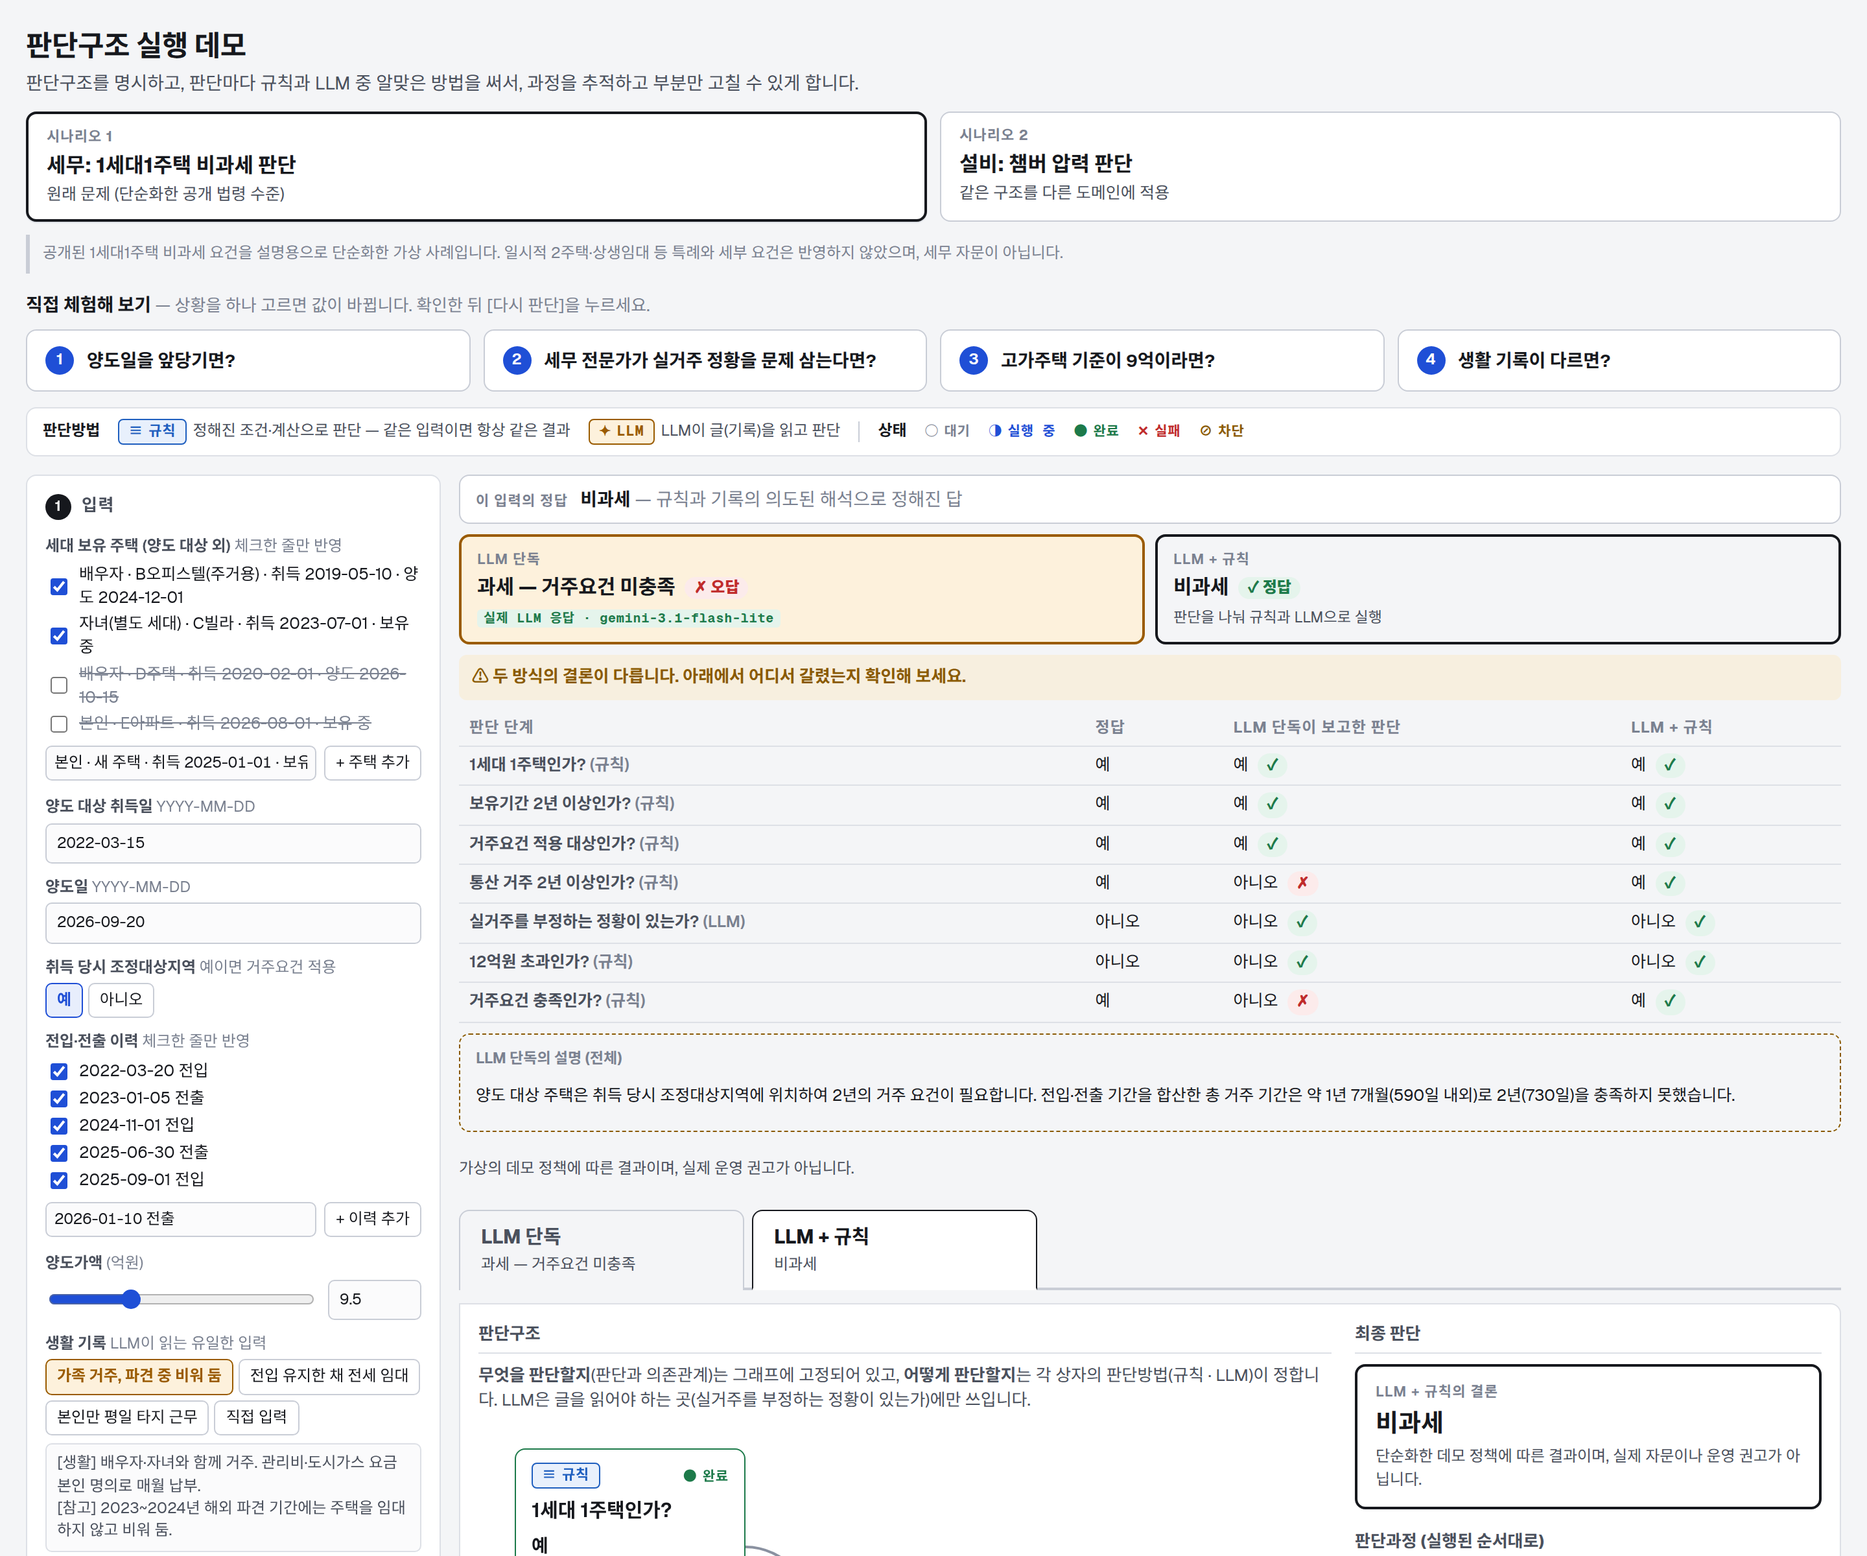
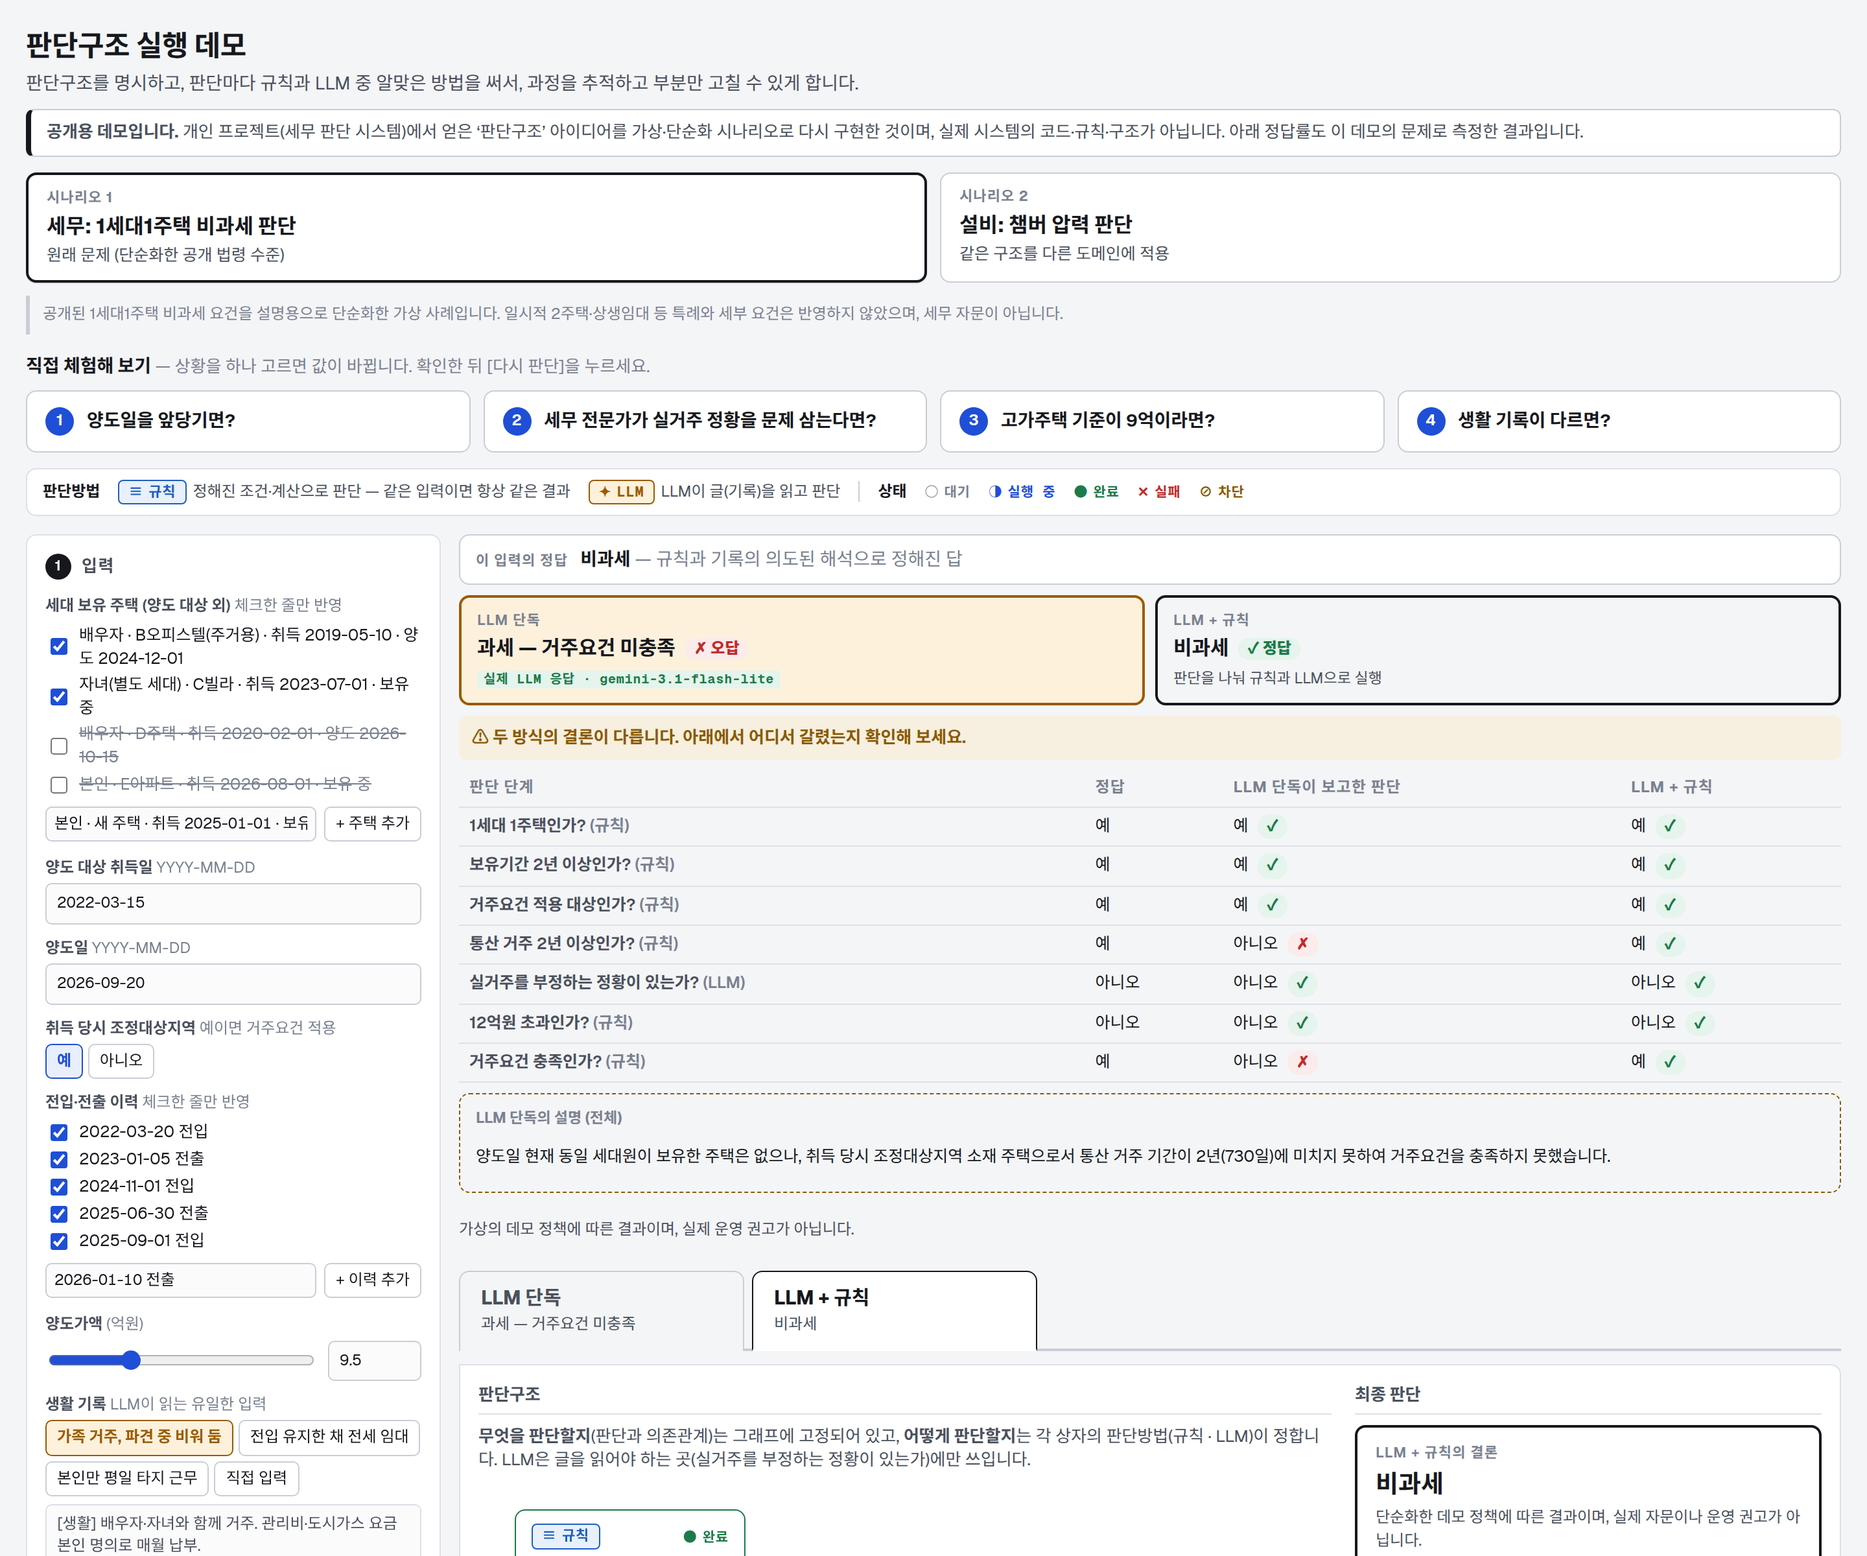
State clearly that this is a public demo and name the lightweight model
- Demo notice on the screen and at the top of the README: a re-implementation
  of the judgment-structure idea on simplified hypothetical scenarios, not the
  author's actual system, code or rules.
- README rewritten in Korean with the benchmark results and local run steps.
- The benchmark names gemini-3.1-flash-lite as a lightweight model and says
  what better models may and may not change.

diff --git a/src/components/BenchmarkPanel.tsx b/src/components/BenchmarkPanel.tsx
@@ -63,7 +63,8 @@ export function BenchmarkPanel({
       ) : (
         <>
           <p className={s.benchHow}>
-            문제 <b>{measured.length}개</b>를 각각 <b>{perCase}번씩</b>, 방식마다 모두 <b>{total("llmOnly", (x) => x.runs)}번</b> 풀었습니다.
+            문제 <b>{measured.length}개</b>를 각각 <b>{perCase}번씩</b>, 방식마다 모두 <b>{total("llmOnly", (x) => x.runs)}번</b> 풀었습니다. 사용
+            모델: <b>{data.model}</b> (경량·저성능 모델).
           </p>
           <div className={s.benchSummary}>
             <div className={`${s.benchStat} ${s.compareLLM}`}>
@@ -145,7 +146,9 @@ export function BenchmarkPanel({
 
       {measured.length > 0 && (
         <p className={s.muted}>
-          측정: {data.model || "—"} · {data.updatedAt ? data.updatedAt.slice(0, 10) : "—"} · 제공사 기본 샘플링 설정. LLM 단독에게는 판단 단계
+          측정 모델: <b>{data.model || "—"}</b> (Google의 경량·저성능 모델) · {data.updatedAt ? data.updatedAt.slice(0, 10) : "—"} · 제공사 기본 샘플링 설정.
+          더 좋은 모델에서는 LLM 단독의 오답률이 낮아질 수 있지만, 계산과 조건 적용을 확률적으로 처리하는 한 문제가 복잡해질수록 오답
+          가능성은 남습니다. 판단구조는 모델 성능과 관계없이 규칙으로 정할 수 있는 판단을 항상 같은 결과로 처리합니다. LLM 단독에게는 판단 단계
           목록만 알려 주고 단계별 판단을 함께 보고하게 했습니다(계산과 결론은 스스로). LLM + 규칙에서도 LLM 단계는 틀릴 수 있으며, 틀리면
           위 표에 그대로 나타납니다. 결과는 관찰된 그대로입니다.
         </p>

diff --git a/src/components/Demo.tsx b/src/components/Demo.tsx
@@ -262,6 +262,10 @@ export function Demo() {
           </p>
         </div>
       </header>
+      <p className={s.demoNotice}>
+        <b>공개용 데모입니다.</b> 개인 프로젝트(세무 판단 시스템)에서 얻은 ‘판단구조’ 아이디어를 가상·단순화 시나리오로 다시 구현한
+        것이며, 실제 시스템의 코드·규칙·구조가 아닙니다. 아래 정답률도 이 데모의 문제로 측정한 결과입니다.
+      </p>
 
       <div className={s.scenarioBar} role="tablist" aria-label="시나리오">
         {SCENARIOS.map((sc, i) => (

diff --git a/src/components/demo.module.css b/src/components/demo.module.css
@@ -1565,3 +1565,14 @@
 .rateBar > span {
   display: block;
 }
+
+.demoNotice {
+  margin: 10px 0 0;
+  padding: 8px 12px;
+  border: 1px solid var(--line-2);
+  border-left: 4px solid var(--ink);
+  border-radius: 6px;
+  background: var(--panel);
+  font-size: 13px;
+  color: var(--ink-2);
+}

diff --git a/README.md b/README.md
@@ -1,106 +1,103 @@
-# 판단구조 실행 데모 (Heterogeneous Judgment Runtime)
+# 판단구조 실행 데모
 
-A minimal demonstration of explicit judgment structure with Rule, Code and LLM resolvers. The UI is in Korean.
+판단구조를 명시하고, 판단마다 **규칙**과 **LLM** 중 알맞은 방법을 써서, 과정을 추적하고 부분만 고칠 수 있게 하는 최소 데모입니다.
 
-> Simplified hypothetical manufacturing scenario for demonstrating the architecture. It does not represent an actual SK hynix process or SOP.
+> **공개용 데모입니다.** 개인 프로젝트(세무 판단 시스템)에서 얻은 ‘판단구조’ 아이디어를 가상·단순화 시나리오로 다시 구현한 것이며,
+> 실제 시스템의 코드·규칙·구조가 아닙니다. 아래 정답률도 이 데모의 문제로 측정한 결과입니다.
+> 세무 시나리오는 공개된 1세대1주택 비과세 요건을 설명용으로 단순화한 가상 사례로, 세무 자문이 아닙니다.
+> 설비 시나리오는 가상의 사례이며 SK하이닉스의 실제 공정이나 SOP가 아닙니다.
 
-## Purpose
+## 가설
 
-An interactive proof-of-concept for one hypothesis, built for an application portfolio. It is not a product or a general workflow framework.
+복잡한 판단 전체를 LLM의 암묵적 추론에 맡기기보다, **판단구조와 의존관계를 명시**하고 판단마다 알맞은 방법(규칙 또는 LLM)을
+배치하면, 정확한 계산과 LLM의 해석을 하나의 **검토 가능한 판단과정**으로 결합할 수 있다.
 
-## Hypothesis
+세 가지 조건으로 확인합니다.
 
-Instead of leaving a complex decision to an LLM's implicit reasoning, make the judgment structure and its dependencies explicit in the system, and give each judgment a suitable resolver. Deterministic computation and LLM reasoning then combine into one reviewable judgment process.
+1. **판단구조 명시** — 반드시 거쳐야 할 판단과 의존관계를 그래프(DAG)로 명시
+2. **규칙과 LLM의 분리** — 조건·계산처럼 정해진 판단은 규칙이, 글을 읽어야 하는 판단만 LLM이
+3. **추적 가능성** — 판단마다 본 입력, 방법, 결과, 근거를 기록
 
-It demonstrates three conditions:
+## 무엇을 비교하나
 
-1. **Explicit Judgment Structure** — required judgments and dependencies are declared in a DAG.
-2. **Deterministic / LLM Separation** — rules and calculations are not delegated to the LLM; the LLM handles only unstructured evidence.
-3. **Traceability** — every node records its input, method, result and evidence.
+같은 입력을 두 방식으로 판단합니다.
 
-## Architecture
+- **LLM 단독** — 입력 전체와 정책을 LLM 한 번에 주고 결론을 받음
+- **LLM + 규칙** — 판단구조(DAG)를 따라 규칙과 LLM을 나눠 실행
 
-```
-Input → Judgment DAG → Resolver dispatch → RULE / CODE / LLM → Structured node result → Final decision → Execution trace
-```
+각 입력에는 정답이 있습니다(규칙 + 준비된 기록의 의도된 해석으로 계산). 화면은 두 방식의 결론과 **판단 단계별 결과**를 정답과
+나란히 보여줍니다. 비교를 위해 LLM 단독에게도 단계별 판단을 함께 보고하게 했습니다(계산과 결론은 스스로).
 
-**Judgment Structure ≠ Judgment Method.** The DAG defines *what* must be judged and what it depends on; the resolver defines *how* each judgment is evaluated. The LLM is one resolver, not the controller.
+## 정답률 측정 결과
 
-| Path | Role |
-|---|---|
-| `src/core/` | Engine: graph validation, execution (READY/BLOCKED propagation, concurrent independent nodes), resolvers, trace |
-| `src/scenario/equipment.ts` | Demo DAG, policy table, CODE functions, example input |
-| `src/app/api/judge` | Evaluates one LLM node server-side (API key never reaches the browser) |
-| `src/app/api/llm-only` | LLM Only comparison mode |
-| `src/components/` | UI |
+여러 조건이 얽힌 문제를 시나리오마다 4개 만들고, 문제마다 두 방식을 **실제 LLM으로 10번씩** 풀게 했습니다.
+모델은 **Google의 경량(저성능) 모델 `gemini-3.1-flash-lite`**(무료 사용량 기준으로 선택), 제공사 기본 샘플링 설정, 2026-09-26 측정.
 
-## Scenarios
+| 시나리오 | LLM + 규칙 | LLM 단독 |
+|---|---|---|
+| 세무 (문제 4개 × 10번) | **40/40** | 25/40 (63%) |
+| 설비 (문제 4개 × 10번) | **40/40** | 30/40 (75%) |
 
-The same engine and screen run two scenarios:
+LLM 단독이 틀린 방식 (자세한 풀이는 화면과 `src/scenario/benchmark.json`):
 
-1. **세무: 1세대1주택 비과세 판단** — the original problem domain, simplified to public-law level (보유기간, 거주요건, 고가주택 기준). Not tax advice; special cases are not modelled; not the author's actual system or rules.
-2. **설비: 챔버 압력 판단** — a hypothetical equipment case, showing the same structure in another domain.
+- 세무 문제 1 — 세 구간으로 끊긴 거주기간을 약 670일로 계산(실제 916일) → 10번 모두 결론 오답
+- 세무 문제 3 — 결론은 10번 모두 맞았지만 거주 일수 단계는 10번 모두 오답 (다른 조건 덕에 결론만 맞음)
+- 세무 문제 4 — 거주요건이 없는 비조정지역인데 거주요건을 적용 → 10번 중 5번 오답
+- 설비 문제 2 — 범위 안 알람 4회를 "5회 이상"으로 셈 → 10번 모두 결론 오답
 
-Two judgment methods: **규칙** (deterministic: conditions, tables, calculations) and **LLM** (reads unstructured text). In each scenario the LLM reads exactly one free-text field (거주 기록 / 정비 기록).
+모델 성능에 대해: 더 좋은 모델에서는 LLM 단독의 오답률이 낮아질 수 있습니다. 그러나 LLM이 날짜 계산·횟수 세기·조건 적용을
+확률적으로 처리하는 한, 문제가 복잡해질수록 오답 가능성은 남습니다. 판단구조는 모델 성능과 관계없이 규칙으로 정할 수 있는 판단을
+항상 같은 결과로 처리하고, LLM에는 글을 읽는 판단만 맡깁니다.
 
-Every run judges the same input two ways — **LLM 단독** (one LLM call decides everything) and **LLM + 규칙** — and shows both conclusions side by side, with where they diverge. Missions let the user change one thing (a date, a rule value, a record, or a human override) and see what changed, what was reused and how many LLM calls were made.
+한계: 문제 수가 적고 경량 모델 하나로 잰 결과입니다. LLM이 항상 틀린다는 뜻이 아니며, LLM + 규칙도 LLM 단계에서는 틀릴 수
+있습니다(이번 측정에서는 틀리지 않았음). 결과는 관찰된 그대로 기록했습니다.
 
-## How to run
+## 시나리오
+
+| | 세무: 1세대1주택 비과세 판단 | 설비: 챔버 압력 판단 |
+|---|---|---|
+| 역할 | 원래 문제 도메인 (단순화) | 같은 구조를 다른 도메인에 적용 |
+| 규칙 단계 | 세대 보유 주택 수, 보유기간, 거주요건 대상, 통산 거주 일수, 고가주택 기준, 거주요건 충족, 과세 여부 | 압력 이상, 알람 반복(3일치 알람 집계), 설비 조치 |
+| LLM 단계 | 실거주를 부정하는 정황 (생활 기록을 읽음) | 센서 고장 근거 (정비 기록을 읽음) |
+
+## 구조를 나눴을 때의 효용 (화면의 ‘직접 체험해 보기’)
+
+- **변경 추적** — 입력을 바꾸면 결론이 왜 바뀌었는지 한 단계로 추적되고, 입력이 그대로인 판단은 재사용 (LLM 호출 0회)
+- **사람의 판단 지정** — 틀렸다고 보는 판단 하나만 사람이 고치면, 그 결과에 의존하는 단계만 다시 계산
+- **규칙 변경** — 규칙 값을 바꾸면 그 규칙을 쓰는 단계에만 반영
+- **실패 통제** — LLM 출력이 형식을 어기면 그 단계만 실패로 표시되고, 의존하는 단계는 차단
+
+## 로컬에서 실행하기
 
 ```bash
 npm install
-cp .env.example .env.local   # optional: add an LLM key for live LLM and LLM Only mode
+cp .env.example .env.local   # 선택: 실제 LLM을 쓰려면 키 입력 (없으면 기록된 실제 응답으로 동작)
 npm run dev
 ```
 
-Direct links: `/?s=tax&run=example`, `/?s=equipment&run=mission-policy`, `/?s=tax&run=failure`.
+- 실시간 LLM 호출이 안 되면 **기록된 실제 LLM 응답**(모델·날짜 표시)을 보여 줍니다. 준비된 예시 기록과 문제·미션 입력은 키 없이 모두 동작합니다.
+- 바로 열기: `/?s=tax&run=problem-p1`, `/?s=equipment&run=problem-p2`, `/?s=tax&run=failure`
 
-Without an API key, the LLM node uses a precomputed answer **for the unmodified example only**, labelled `준비된 예시 답변`. Modified input then fails honestly at the LLM node.
-
-## LLM answers: live, recorded, prepared
-
-The AI step (and LLM Only mode) shows where each answer came from:
-
-| Label | Meaning |
+| 명령 | 내용 |
 |---|---|
-| 실제 AI 응답 | Live call made now (needs `LLM_*` on the server) |
-| 기록된 실제 AI 응답 · model · date | A real model answer saved earlier with `npm run record`, shown when no live LLM is available |
-| 준비된 예시 답변 | Written for the demo (not model output); last resort for the prepared maintenance-record variants |
+| `npm test` | 테스트 68개 (LLM 없이 실행): 그래프 검증, 실행 순서·병렬, 규칙·LLM 판단, 형식 오류, 실패 전파, 재사용, 사람 지정, 각 시나리오의 정책·경계값·정답 |
+| `npm run benchmark -- --runs 10` | 정답률 측정 (실제 LLM 필요, 이어서 측정 가능) |
+| `npm run record` | 실제 LLM 응답 기록 |
+| `npx tsx scripts/summarize-benchmark.ts` | 측정 결과 요약 |
 
-Record real answers once (server running with a key):
+## 구성
 
-```bash
-npm run dev -- -p 3100
-npm run record        # writes src/scenario/recorded.json — review it before deploying
-```
+| 경로 | 내용 |
+|---|---|
+| `src/core/` | 판단 엔진: 그래프 검증, 실행(의존관계에 따른 실행·차단, 병렬), 규칙·LLM 판단, 재사용, 사람 지정, 판단과정 기록 |
+| `src/scenario/` | 시나리오(세무·설비), 정답 계산, 기록된 응답, 측정 결과 |
+| `src/app/api/` | LLM 호출(서버에서만, 키는 브라우저로 전달되지 않음) |
+| `src/components/` | 화면 |
+| `docs/decision-log.md` | 설계 결정 기록 (기각·수정한 결정 포함) |
+| `docs/screenshots/` | 화면 캡처 |
 
-## Deployment (Vercel)
+## AI 활용 과정
 
-- The API key lives only in Vercel environment variables (`LLM_PROVIDER` = `gemini` | `anthropic` | `openai`, `LLM_API_KEY`, `LLM_MODEL`); it never reaches the browser.
-- Set a monthly spending limit in the provider console. The endpoints already allow only the demo's fixed question, cap input length and rate-limit per IP.
-- Visits: `<Analytics />` (Vercel Web Analytics, cookieless) counts page views; enable it in the Vercel project. Link the portfolio PDF to **`/p`** (same demo) so portfolio-originated visits are counted separately. Custom events: `mission`, `run`, `failure_example` (availability depends on the Vercel plan).
-
-## Tests
-
-```bash
-npm test
-```
-
-32 tests with a mock LLM (no API needed): validation (duplicate, missing dependency, cycle path, unknown resolver), ordering, concurrency, RULE/CODE/LLM resolvers, malformed LLM output, resolver failure, downstream blocking, trace, every row of the demo policy.
-
-Measurement against a live LLM (§9-1 of the spec): `npm run measure -- --runs 10` → `docs/measurements.md`.
-
-## Limitations
-
-- Toy scenario with four nodes; not a workflow engine (no persistence, retries, distributed execution, authorization).
-- The rate limit is in-memory per server instance.
-- The fallback answer was authored for the demo, not recorded from a model.
-- The comparison is about architecture, not a claim that the structured mode is always more accurate.
-
-## AI-assisted development process
-
-Built with an AI coding assistant. I defined the hypothesis, the three conditions, the constraints and the non-goals; the assistant proposed designs, wrote code and tests, and I reviewed the results against the original conditions. Decisions, including rejected and corrected ones, are in [`docs/decision-log.md`](docs/decision-log.md).
-
-## Live demo URL
-
-_Not deployed yet._
+AI 코딩 도구(Claude Code)와 함께 만들었습니다. 저는 가설과 세 조건, 범위와 제약을 정하고 결과가 원래 목적에 맞는지 검토했으며,
+방향을 여러 번 바꿨습니다(결론 비교만으로는 효과를 증명할 수 없다고 보고 정답률 측정으로 전환, 조건 하나씩 바꾼 문제 대신 조건이
+얽힌 문제로 재구성 등). 기각하거나 수정한 결정과 그 이유는 [`docs/decision-log.md`](docs/decision-log.md)에 있습니다.
